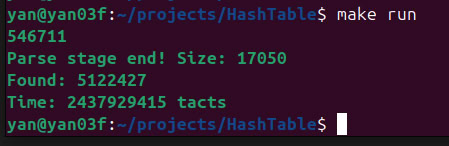
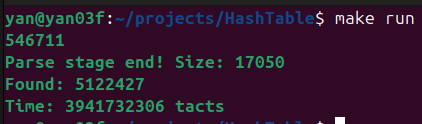
Fixed after review

Changed region(s): [[0.0, 0.0, 1.0, 1.0], [0.4621, 0.9919, 0.4929, 1.0]]

diff --git a/src/HashTable.cpp b/src/HashTable.cpp
@@ -1,16 +1,16 @@
 #include "HashTable.h"
 
 const        size_t LEN_ALIGNMENT     = 16; 
-static const size_t LENGTH_FIELD_SIZE = 4;
+static const size_t LENGTH_FIELD_SIZE = 2;
 
 Node* HashTableFind(Node* head, KeyType* find_key) {
     while (head != NULL) {
-        if (MyAsmStrCmp(head->key, find_key) == 0) return head;
+        if (strcmp(head->key, find_key) == 0) return head;
         head = head->next;
     }
     return NULL;
 }
-
+//*16 + 15 = 31
 int MyAsmStrCmp(KeyType* str1, KeyType* str2) {
     assert(str1 != NULL);
     assert(str2 != NULL);
@@ -29,14 +29,12 @@ int MyAsmStrCmp(KeyType* str1, KeyType* str2) {
         __m128i xmm2 = _mm_loadu_si128((__m128i*)(s2 + i));
         __m128i cmp  = _mm_cmpeq_epi8(xmm1, xmm2);
 
-        if (_mm_movemask_epi8(cmp) != 0xFFFF) 
-            return 1; 
+        if (_mm_movemask_epi8(cmp) != 0xFFFF) return 1; 
     }
 
     //* remained
     for (; i < len1; ++i) {
-        if (s1[i] != s2[i])
-            return 1;
+        if (s1[i] != s2[i]) return 1;
     }
 
     return 0;

diff --git a/src/main.cpp b/src/main.cpp
@@ -6,12 +6,15 @@
 //* valgrind --tool=callgrind ./build/hashtable 
 //* kcachegrind callgrind.out
 
+//* translate ast in asm
+//* think about steck calculate
+
 static const char* LORD_OF_RINGS_TEXT = "LOR_converted.txt";
 static const char* SHUFFLE_TEST       = "mixed_test.txt";
 static const char* RESULTS_FILE       = "test_results.txt";
 
 int main() {
-    HashTable* ht = HashTableCtor(TABLE_SIZE, GetHashCRC32Optimize);
+    HashTable* ht = HashTableCtor(TABLE_SIZE, GetHashCRC32Default);
     if (ht == NULL) {
         fprintf(stderr, RED("Error in HashTableCtor!\n"));
         return MEMORY_ERROR;

diff --git a/src/Tester.cpp b/src/Tester.cpp
@@ -55,7 +55,6 @@ ReturnCodes StartTestsForHashTable(HashTable* ht, const char* input, const char*
     }
 
     printf(GREEN("Total searches: %lu\n"), operations);
-    printf(GREEN("Found matches: %lu\n"), found);
     printf(GREEN("Total time: %lu tacts\n"), total_time);
     printf(GREEN("Average time per search: %.2f tacts\n"), (double)total_time / operations);
 

diff --git a/src/HashFucntions.cpp b/src/HashFucntions.cpp
@@ -70,11 +70,12 @@ size_t GetHashCRC32Default(KeyType* key) {
     return crc;
 }
 
+extern "C" size_t my_strlen(const char* str);
 
 size_t GetHashCRC32Optimize(KeyType* key) {
     assert(key != NULL);
 
-    size_t size = strlen(key);
+    size_t size = my_strlen(key);
     size_t crc  = 0xffffffff;
     
     for (size_t i = 0; i < size; i++) {

diff --git a/README.md b/README.md
@@ -6,6 +6,10 @@
 
 **Хеш-таблица** — структура данных, реализующая интерфейс ассоциативного массива, а именно, она позволяет хранить пары (*ключ, значение*) и выполнять три операции: операцию добавления новой пары, операцию удаления и операцию поиска пары по ключу.
 
+Ситуация, когда $key_1 \neq key_2$, но $h(key_1) = h(key_2)$ называется **коллизией**.
+
+Существует достаточно много видов хеш-таблиц, среди которых *таблица с прямой адресацией, метод цепочек, таблицы с открытой адресацией, идеальное хеширование, хеширование кукушки*. В данной работе реализована **хеш-таблица на цепочках**.
+
 # **Реализация таблицы**
 
 Моя таблица работает с использованием метода цепочек (используется *двусвязный список*), в ней реализваны стандартные функции: вставка, удаление, поиск, ресайз. Таблица работает с строками, в качестве источника строк взято произведение *Дж. Р. Р. Толкина "Властелин колец"*. 
@@ -86,12 +90,12 @@ for (; *key; ++key) {
 
 Результаты измерений запишем в таблицу, будем считать ускорение относительно предыдущей версии, а также относительно самой первой (базовой версии):
 
-| Стадия оптимизации | Время работы (в тактах) | Ускорение относительно предыдущей версии (в процентах) | Ускорение относительно базовой версии (в процентах)|
+| Стадия оптимизации | Среднее время работы (в тактах) | Ускорение относительно предыдущей версии (в процентах) | Ускорение относительно базовой версии (в процентах)|
 |:------------------:|:-----------------------:|:----------------------------------------:|:-------------------------------------:|
 |   Базовая версия   |       6142775058        |                    -                     |             -                         |
 |   -O1              |       5013458683        |                  18.4%                   |           18.4%                       |
-|   -O2              |       2437929415        |                  51.4%                   |           60.3%                       |
-
+|   -O2              |       3941732306        |                  21.4%                   |           35.8%                       |
+                             
 # **Оптимизации, не использующие флаги компиляции**
 
 Следующий этап работы заключался в оптимизации моей хеш-таблицы. Для этого необходимо было провести профилирование программы. Для этой задачи я использовал утилиту `valgrind`, а если конкретнее, то `callgrind` (**Callgrind** — это инструмент в составе valgrind для профилирования программ. Он анализирует вызовы функций, собирая статистику о количестве выполненных инструкций, времени выполнения и об иерархии вызовов).
@@ -165,12 +169,12 @@ size_t GetHashCRC32Optimize(KeyType* key) {
 
 Вот табличка с сравнением относительно предыдущих результатов:
 
-| Стадия оптимизации | Время работы (в тактах) | Ускорение относительно предыдущей версии (в процентах) | Ускорение относительно базовой версии (в процентах)|
+| Стадия оптимизации | Среднее время работы (в тактах) | Ускорение относительно предыдущей версии (в процентах) | Ускорение относительно базовой версии (в процентах)|
 |:------------------:|:-----------------------:|:----------------------------------------:|:-------------------------------------:|
 |   Базовая версия   |       6142775058        |                    -                     |             -                         |
 |   -O1              |       5013458683        |                  18.4%                   |           18.4%                       |
-|   -O2              |       2437929415        |                  51.4%                   |           60.3%                       |
-|  crc32 optimize    |       3482656359        |                 -42.9%                   |           43.3%                       |
+|   -O2              |       3941732306        |                  21.4%                   |           35.8%                       |
+|  crc32 optimize    |       3482656359        |                  11.6%                   |           43.3%                       |
 
 <img align="center" width="600" height="175" src="img/find_slow.jpg">
 
@@ -189,7 +193,7 @@ Node* HashTableFind(Node* head, KeyType* find_key) {
 }
 ```
 
-Чтобы ускорить функцию поиска, напишем свою функцию для проверки равенства строк, которая будет использовать **SIMD-инструкции**. Также будем хранить в первых четырёх байтах строки её длину, это позволит сразу обнаружить несовпадающие строки. 
+Чтобы ускорить функцию поиска, напишем свою функцию для проверки равенства строк, которая будет использовать **SIMD-инструкции**. Для ускорения будем выравнивать данные по 16, также будем **хранить в первых двух байтах строки её длину**, это позволит сразу обнаруживать несовпадающие строки. 
 
 ```c
 int MyAsmStrCmp(KeyType* str1, KeyType* str2) {
@@ -214,7 +218,6 @@ int MyAsmStrCmp(KeyType* str1, KeyType* str2) {
             return 1; 
     }
 
-    //* remained
     for (; i < len1; ++i) {
         if (s1[i] != s2[i])
             return 1;
@@ -242,16 +245,100 @@ Node* HashTableFind(Node* head, KeyType* find_key) {
 
 <img align="center" width="600" height="175" src="img/mystrcmp.jpg">
 
-| Стадия оптимизации | Время работы (в тактах) | Ускорение относительно предыдущей версии (в процентах) | Ускорение относительно базовой версии (в процентах)|
+| Стадия оптимизации | Среднее время работы (в тактах) | Ускорение относительно предыдущей версии (в процентах) | Ускорение относительно базовой версии (в процентах)|
 |:------------------:|:-----------------------:|:----------------------------------------:|:-------------------------------------:|
 |   Базовая версия   |       6142775058        |                    -                     |             -                         |
 |   -O1              |       5013458683        |                  18.4%                   |           18.4%                       |
-|   -O2              |       2437929415        |                  51.4%                   |           60.3%                       |
-|  crc32 optimize    |       3482656359        |                 -42.9%                   |           43.3%                       |
+|   -O2              |       3941732306        |                  21.4%                   |           35.8%                       |
+|  crc32 optimize    |       3482656359        |                  11.6%                   |           43.3%                       |
 |  MyStrCmp          |       3319376591        |                   4.7%                   |           45.9%                       |
+                             420243718
+                             400399296   
 
+Последний этап оптимизации - необходимо было написать функцию на ассемблере и использовать её в своей программе. После анализа программы было решено попытаться ускорить работу функции `GetHashCRC32Optimize`, давайте посмотрим ещё раз на её код:
+
+```c
+size_t GetHashCRC32Optimize(KeyType* key) {
+    assert(key != NULL);
+
+    size_t size = strlen(key);
+    size_t crc  = 0xffffffff;
+    
+    for (size_t i = 0; i < size; i++) {
+        asm volatile (
+            "crc32b %1, %0"
+            : "+r"(crc)
+            : "rm"(*key)
+        );
+        key++;
+    }
+
+    return crc;
+}
+```
+
+Что если попробовать написать **свою функцию определения длины строки**? Именно так подумал я и сразу же пошёл реализовывать это. В результате была написана такая простая версия `my_strlen`, которую я затем использовал в хеш-функции:
+
+```asm
+section .text
+global my_strlen
+
+my_strlen:
+    xor rax, rax
+
+.loop:
+    cmp BYTE [rdi + rax], 0
+    je .end
+    inc rax
+    jmp .loop
+
+.end:
+    ret
+```
+
+Результаты вы можете видеть ниже:
+
+<img align="center" width="600" height="175" src="img/mystrlen.png">
+
+Да, время значительно уменьшилось, но, попробовав запустить отдельно от предыдущё оптимизации (MyAsmStrCmp), я получил довольно интересный результат:
+
+<img align="center" width="600" height="175" src="img/ogo.png">
+
+Помимо всего, было предложено запустить программу с флагом компиляции `-O3` и посмотреть, удалось ли хоть немного приблизиться к нему. На моё удивление результаты тестов для такого запуска оказались весьма близки к моим, полученным ранее:
+
+<img align="center" width="600" height="175" src="img/O3.png">
+
+# **Итоги и информация о тестирующей машине**
+
+Вся работа проводилась на моём ноутбуке- 8-ядерном процессоре Intel Core i5-13500H, во время тестов была выставлена тактовая частота 3300 МГц.
+
+```
+yan@yan03f:~/projects/HashTable$ lscpu
+Architecture:             x86_64
+  CPU op-mode(s):         32-bit, 64-bit
+  Address sizes:          39 bits physical, 48 bits virtual
+  Byte Order:             Little Endian
+CPU(s):                   16
+  On-line CPU(s) list:    0-15
+Vendor ID:                GenuineIntel
+  Model name:             13th Gen Intel(R) Core(TM) i5-13500H
+    CPU family:           6
+    Model:                186
+    Thread(s) per core:   2
+    Core(s) per socket:   12
+    Socket(s):            1
+    Stepping:             2
+    CPU(s) scaling MHz:   18%
+    CPU max MHz:          4700.0000
+    CPU min MHz:          400.0000
+
+```
 
 В ходе работы была написана и оптимизирована хеш-таблица с методом цепочек, был проведён анализ различных хеш-функций. С помощью различных видов оптимизаций код стал немного менее читаемым, однако это хорошо сказалось на времени работы программы.
+
+Наибольшее ускорение относительно базовой версии - $\frac{6142775058}{400399296} \approx 15.3$ Всего было написано Также был подсчитан так называемый `Коэффициент оптимизаций`, он составил:
+
+$\alpha = \frac{}{} \cdot 100 = \frac{15.3}{31} \cdot 100 \approx 49.4$
 
 # **Список литературы и других источников**
 
